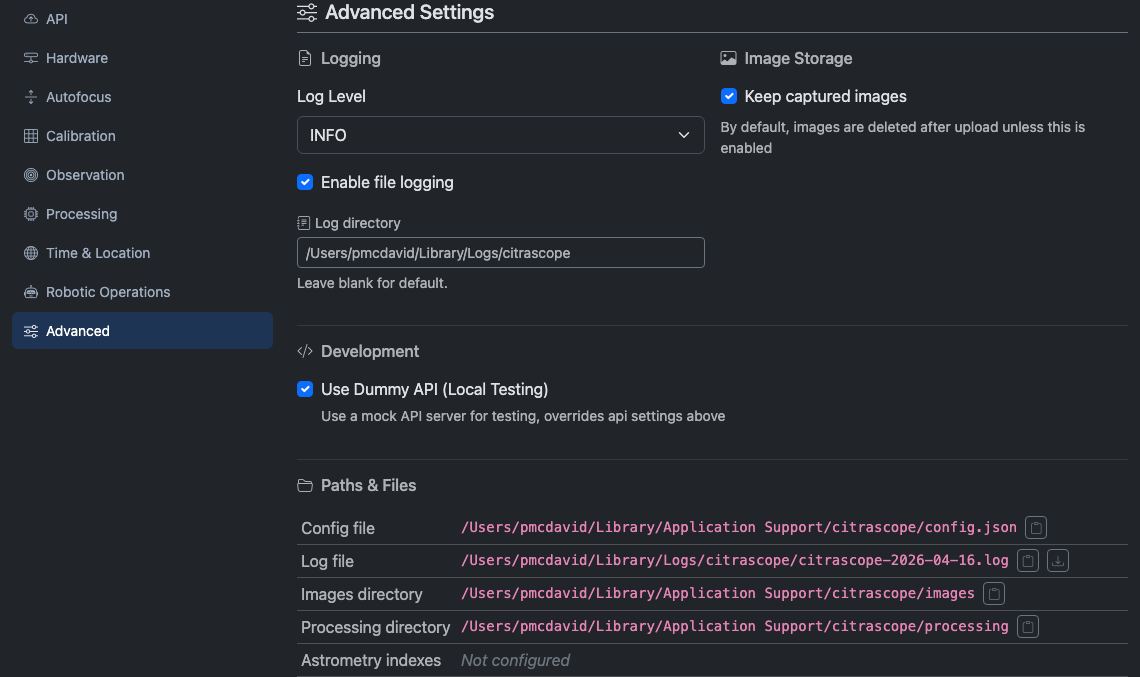
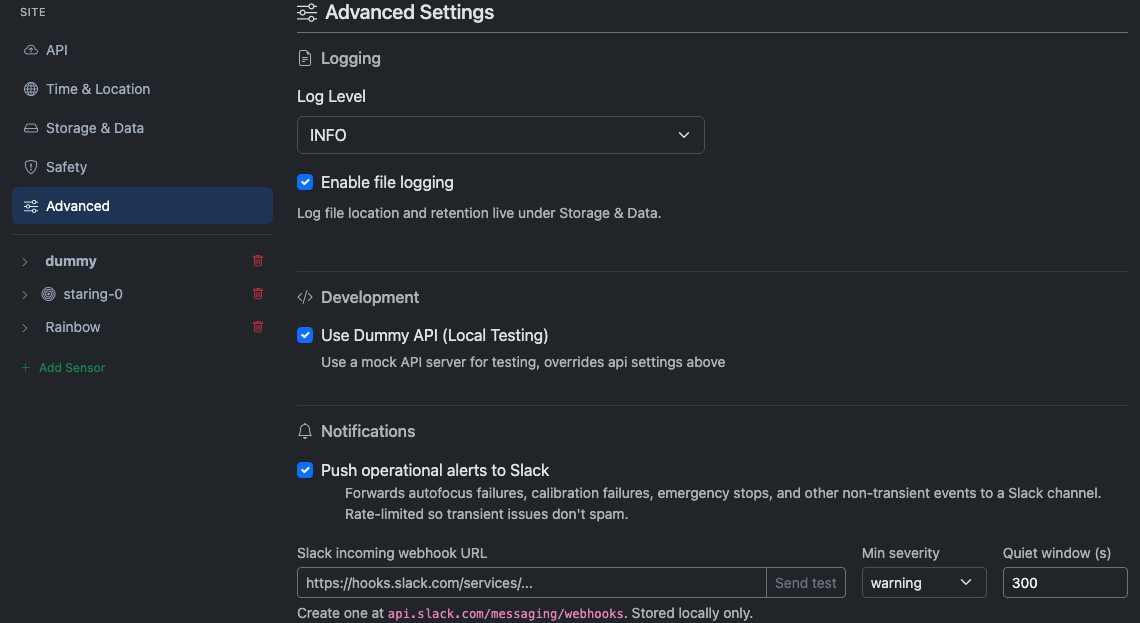
Enhance CitraSense documentation with updates to Configuration, Direct Hardware, Monitoring, Operating, Raspberry Pi, and Telescope Sensor sections; add new retention settings and operational notes, and update images for clarity.

diff --git a/docs/citrasense/Configuration.md b/docs/citrasense/Configuration.md
@@ -256,20 +256,42 @@ These settings control how SExtractor detects stars and satellites in each image
 
 ---
 
-## Pipeline
+## Storage & Data
 
-![Pipeline tab showing processing-output retention, APASS catalog toggle, and data directory](img/config-pipeline.png)
+![Storage & Data tab showing retention windows, data locations, APASS catalog, and live disk-usage breakdown](img/config-pipeline.png)
 
-The Pipeline tab is a site-level tab that controls where processing output lives and how long it sticks around.
+The Storage & Data tab is a site-level tab that controls how long CitraSense keeps things, where it writes them, and how much disk each is using. It consolidates retention windows, data and log locations, the APASS catalog, and a live storage-usage breakdown in one place.
+
+### Retention
 
 | Setting | Description |
 |---------|-------------|
-| **Processing output retention** | How long to keep intermediate pipeline files (source catalogs, plate-solve artifacts) on disk. Options: **Delete immediately** (default), **6 hours**, **24 hours**, **3 days**, **7 days**, or **Keep forever**. Analysis metrics are always kept regardless of this setting. |
-| **Use local APASS catalog** | Use a locally downloaded copy of the APASS photometric catalog (~6.4 GB compressed, ~16 GB on disk) instead of querying the AAVSO HTTP API. Faster and works offline. |
-| **Data directory** | Where images and processing output are stored. Leave blank for the platform default. |
+| **Processing output retention** | How long to keep per-task debug bundles (source catalogs, plate-solve artifacts) and staring source frames on disk. Options: **Delete immediately** (default), **6 hours**, **24 hours**, **3 days**, **7 days**, or **Keep forever**. Analysis metrics are always kept regardless of this setting. |
+| **Observation history retention** | How long the browsable record of past observations stays available. Analysis preview images and task-index rows age out together. Options: **7 days**, **30 days** (default), **90 days**, **1 year**, or **Keep forever**. |
+| **Log retention** | How long daily log files are kept before they are removed. Options: **7 days**, **30 days** (default), **90 days**, or **Keep forever**. |
+| **Keep captured images** | Retain raw FITS files after upload. By default, images are deleted after successful upload to save disk space. Enable this for post-processing or archival. |
 
 {: .note }
-> Retention controls how long bundles stay available for [Analysis tab reprocessing](Analysis.html#reprocess-panel). **Delete immediately** disables reprocessing — once a task finishes, its bundle is gone.
+> Processing-output retention controls how long bundles stay available for [Analysis tab reprocessing](Analysis.html#reprocess-panel). **Delete immediately** disables reprocessing — once a task finishes, its bundle is gone.
+
+### Locations & catalog
+
+| Setting | Description |
+|---------|-------------|
+| **Data directory** | Where images and processing output are stored. Leave blank for the platform default. |
+| **Log directory** | Where daily log files are written. Leave blank for the platform default (`~/Library/Logs/citrasense/` on macOS). |
+| **Use local APASS catalog** | Use a locally downloaded copy of the APASS photometric catalog (~6.4 GB compressed, ~16 GB on disk) instead of querying the AAVSO HTTP API. Faster and works offline. |
+
+### Storage usage
+
+A live breakdown at the bottom of the tab shows where CitraSense is reading and writing:
+
+- **Config file** and **Log file** paths, each with a copy-path button (and a download button for the log).
+- **Disk usage** — a bar showing free space on the data volume. It turns red when free space drops below the safety check's 1 GB threshold.
+- A per-directory size breakdown, largest first, so you can see at a glance what is consuming space.
+- **Astrometry indexes** — the directory holding astrometry.net index files, when configured.
+
+These rows are read-only and exist for reference and troubleshooting.
 
 ---
 
@@ -350,9 +372,9 @@ These settings control what happens automatically at the start and end of each o
 | Setting | Description |
 |---------|-------------|
 | **Darkness Threshold** | The sun altitude that defines "dark enough to observe." Choose **Civil Twilight** (−6°), **Nautical Twilight** (−12°), or **Astronomical Twilight** (−18°). The observing session begins when the sun drops below this altitude and ends when it rises above it. |
-| **Calibrate pointing model at start of night** | Plate-solve a known star to calibrate the mount's pointing model before the first task. |
+| **Calibrate pointing model at start of night** | Plate-solve a multi-point sky model to calibrate the mount's pointing before the first task. |
+| **Quick align at start of night** | A single plate-solve and sync — a fast alternative to the full pointing-model calibration above. Use this when you want the mount roughly synced without running the longer multi-point routine. |
 | **Autofocus at start of night** | Run autofocus before the first observation of the session. |
-| **Alignment at start of night** | (Coming soon) |
 | **Unpark at dusk / Park at dawn** | Automatically unpark the mount when the session begins and park it when the session ends. |
 
 {: .note }
@@ -382,9 +404,9 @@ To manually clear an active wrap warning, use the **Reset cable wrap** control o
 
 ## Advanced
 
-![Advanced Settings tab showing logging, image storage, and development options](img/config-advanced.png)
+![Advanced Settings tab showing logging, notifications, and development options](img/config-advanced.png)
 
-The Advanced tab holds logging, storage, and development settings.
+The Advanced tab holds logging, outbound notifications, and development settings.
 
 ### Logging
 
@@ -392,13 +414,9 @@ The Advanced tab holds logging, storage, and development settings.
 |---------|-------------|
 | **Log Level** | Verbosity of log output: **DEBUG**, **INFO**, **WARNING**, or **ERROR**. INFO is recommended for normal operations; DEBUG is useful for troubleshooting. |
 | **Enable file logging** | Write log output to files on disk in addition to the WebSocket stream. |
-| **Log directory** | Where log files are stored. Leave blank for the platform default (`~/Library/Logs/citrasense/` on macOS). |
 
-### Image Storage
-
-| Setting | Description |
-|---------|-------------|
-| **Keep captured images** | Retain raw FITS files after upload. By default, images are deleted after successful upload to save disk space. Enable this for post-processing or archival. |
+{: .note }
+> The log file location and log retention live under [Storage & Data](#storage--data), alongside the other data directories and the disk-usage breakdown.
 
 ### Development
 
@@ -406,20 +424,23 @@ The Advanced tab holds logging, storage, and development settings.
 |---------|-------------|
 | **Use Dummy API (Local Testing)** | Replace the live Citra API connection with a local mock server. Useful for testing CitraSense without an internet connection or API account. When enabled, the [API tab](#api) shows a warning and its settings are ignored. |
 
-### Paths & Files
+### Notifications
 
-A read-only table at the bottom of the Advanced tab shows the file system paths CitraSense is using for this session. Each path has a clipboard button to copy it.
+CitraSense can forward operational alerts to a Slack channel so an operator who has stepped away still sees what happened. It pushes non-transient events — autofocus failures, calibration failures, emergency stops, and similar — and is rate-limited so transient issues don't spam the channel.
 
-| Path | What it points to |
-|------|--------------------|
-| **Config file** | The `config.json` file where all settings are persisted |
-| **Log file** | The current day's log file (shown only when file logging is enabled). A download button lets you save the log directly from the browser. |
-| **Images directory** | Where captured FITS files are stored |
-| **Processing directory** | Where intermediate pipeline files are written |
-| **Astrometry indexes** | The directory containing astrometry.net index files (shown only when configured) |
+| Setting | Description |
+|---------|-------------|
+| **Push operational alerts to Slack** | Master toggle. When on, the webhook and filter settings below appear. |
+| **Slack incoming webhook URL** | Create one at `api.slack.com/messaging/webhooks`. Stored locally only and redacted from the config API once saved — leave the field blank on a later save to keep the existing webhook. Use **Send test** to confirm it works. |
+| **Min severity** | The lowest severity that gets forwarded: **info**, **warning** (default), or **danger**. |
+| **Quiet window (s)** | The rate-limit window, in seconds. Repeat alerts with the same identity inside this window are suppressed (default 300). |
+
+### Device name
 
 {: .note }
-> These paths are read-only and are shown for reference and troubleshooting. To change the log or data directories, use the Logging and Image Storage settings above.
+> This section appears only on hardware where CitraSense can set the network name — currently the [Raspberry Pi image](RaspberryPi.html).
+
+Sets this box's local network name. After applying it, the device is reachable at `citrasense-<name>.local`. This names the box, not the ground station where it's deployed — the operating location is set separately on the [Time & Location](#time--location) tab.
 
 ---
 

diff --git a/docs/citrasense/TelescopeSensor.md b/docs/citrasense/TelescopeSensor.md
@@ -56,7 +56,7 @@ The Robotic Session card appears when the **Robotic** switch is on. It tracks th
 | State | Badge | What's happening |
 |-------|-------|------------------|
 | **Daytime** | Gray | Telescope is parked. Countdown shows time to the next dark window. |
-| **Starting Up** | Blue | Sun dropped below the twilight threshold. CitraSense is unparking, running pointing calibration / autofocus, and otherwise preparing. |
+| **Starting Up** | Blue | Sun dropped below the twilight threshold. CitraSense is unparking, running alignment / pointing calibration / autofocus, and otherwise preparing. |
 | **Observing** | Green | Tasks are being executed. Countdown shows time remaining in the dark window. |
 | **Shutting Down** | Yellow | Dawn approaches. CitraSense finishes the current task, parks the mount, and shuts down for the day. |
 
@@ -126,7 +126,7 @@ Controls:
 Additional mount controls appear at the bottom of the Telescope card for adapters that support direct control:
 
 - **Jog pad** — 3×3 grid of N/S/E/W buttons for manual mount movement. Press and hold to move; release to stop. Center button stops all axes immediately. Works with both mouse and touch.
-- **Point at satellite** — Search the satellite catalog by name (start typing — for example "ISS" or "DIRECTV 14" — and matches appear in a dropdown). Pick a result to load its live state. A chip shows its current altitude and azimuth, colored green when above the configured horizon limit, yellow when below it, and red when below the horizon. The action button reads **Track** on mounts that support custom tracking rates (slew and follow the satellite) and **Point** on mounts that do not (slew once — press again to re-point). A "View on Citra" link opens the satellite's page on citra.space when the app URL is configured. Click **clear** to drop the selection.
+- **Point at satellite** — Search the satellite catalog by name (start typing — for example "ISS" or "DIRECTV 14" — and matches appear in a dropdown). Flip the **Only visible now** switch to limit results to satellites currently above your horizon; matches then show their altitude (for example `· 42°`) next to the name. Pick a result to load its live state. A chip shows its current altitude and azimuth, colored green when above the configured horizon limit, yellow when below it, and red when below the horizon. The action button reads **Track** on mounts that support custom tracking rates (slew and follow the satellite) and **Point** on mounts that do not (slew once — press again to re-point). A "View on Citra" link opens the satellite's page on citra.space when the app URL is configured. Click **clear** to drop the selection.
 
   ![Telescope card with DIRECTV 14 selected as the satellite target, showing the live alt/az chip and View on Citra link](img/sensor-telescope-satellite-track.png)
 - **Go To** — Enter target RA (0–360°) and Dec (−90–90°), press **Go** to slew. The button is disabled while the mount is slewing or busy.

diff --git a/docs/citrasense/Operating.md b/docs/citrasense/Operating.md
@@ -209,8 +209,8 @@ For tonight, staying hands-on is the right call. You'll learn what every number 
 
 - **Dark, flat, bias masters** — refresh monthly or when conditions change. On Direct Hardware, capture through the telescope's Configuration → Calibration tab (see [Capture calibration frames](#calibration-frames) in Part 1 — flats need dusk or dawn). On N.I.N.A. the Flat Wizard automation can handle flats hands-off. On KStars and INDI, use your adapter's native calibration tools — CitraSense applies whatever masters it finds at processing time.
 - **Pointing model** (Direct Hardware) — rebuild after re-leveling the mount, a teardown, or a large temperature shift. Other adapters rely on the mount's own alignment scheme instead.
-- **Disk space** — raw FITS and processing artifacts add up fast. Site-level **Pipeline → Processing output retention** controls how long bundles stick around; per-sensor **Advanced → Keep captured images** controls raw FITS retention.
-- **Log files** — CitraSense rotates daily logs at `~/Library/Logs/citrasense/` (macOS). Paths and copy buttons are on Configuration → **Advanced** → **Paths & Files**.
+- **Disk space** — raw FITS and processing artifacts add up fast. The **Storage & Data** tab holds the retention windows (processing output, observation history, logs), the **Keep captured images** toggle for raw FITS, and a live disk-usage breakdown.
+- **Log files** — CitraSense rotates daily logs at `~/Library/Logs/citrasense/` (macOS). Paths, copy buttons, and the disk-usage breakdown are on Configuration → **Storage & Data**.
 
 ---
 

diff --git a/docs/citrasense/RaspberryPi.md b/docs/citrasense/RaspberryPi.md
@@ -33,7 +33,10 @@ On first boot, the Pi picks a random name from famous space missions:
 
 > voyager, hubble, galileo, juno, kepler, pioneer, viking, luna, apollo, gemini, mercury, atlas, titan, orion, phoenix, spirit, curiosity
 
-This name is permanent. It becomes the WiFi hotspot SSID, the network hostname, and how you find the device on your network. If yours draws `voyager`, everything is `citrasense-voyager` from here on out.
+This name becomes the WiFi hotspot SSID, the network hostname, and how you find the device on your network. If yours draws `voyager`, everything is `citrasense-voyager` from here on out.
+
+{: .note }
+> You can rename the box later from the **Advanced** config tab (**Device name**). Set a new suffix and the device becomes reachable at `citrasense-<name>.local`. This names the box, not the ground station where it's deployed — the operating location is set separately on the Time & Location tab.
 
 ### Connect to WiFi
 

diff --git a/docs/citrasense/Monitoring.md b/docs/citrasense/Monitoring.md
@@ -101,6 +101,9 @@ The telescope card shows the operational switches for that scope, a live preview
 | **Processing** | When enabled, the daemon executes queued tasks (imaging, processing, uploading) for this telescope. Turn off to pause execution while keeping the API connection alive. |
 | **Robotic** | Enables the robotic observing session lifecycle (park/unpark at dusk/dawn, start-of-night autofocus). |
 
+{: .note }
+> A newly added sensor starts with **Processing** off so it won't act on tasks before you've finished configuring it. Turn the switch on when the sensor is ready to image.
+
 A **Cable Wrap** pill appears next to the switches when this telescope's mount has hit its cable-wrap warning or emergency limit.
 
 **Hero panel**:

diff --git a/docs/citrasense/DirectHardware.md b/docs/citrasense/DirectHardware.md
@@ -47,6 +47,7 @@ This is the recommended adapter for Linux, macOS, and Raspberry Pi deployments.
 | Device | Install Extra | Notes |
 |--------|--------------|-------|
 | **ZWO EAF** (Electronic Automatic Focuser) | *(none)* | Enables autofocus when paired with a camera |
+| **PrimaLuce Labs SestoSenso 3** (3 / 3 LS / 3 SC) | *(none)* | USB serial. Enables autofocus when paired with a camera |
 
 ### Filter Wheels
 
